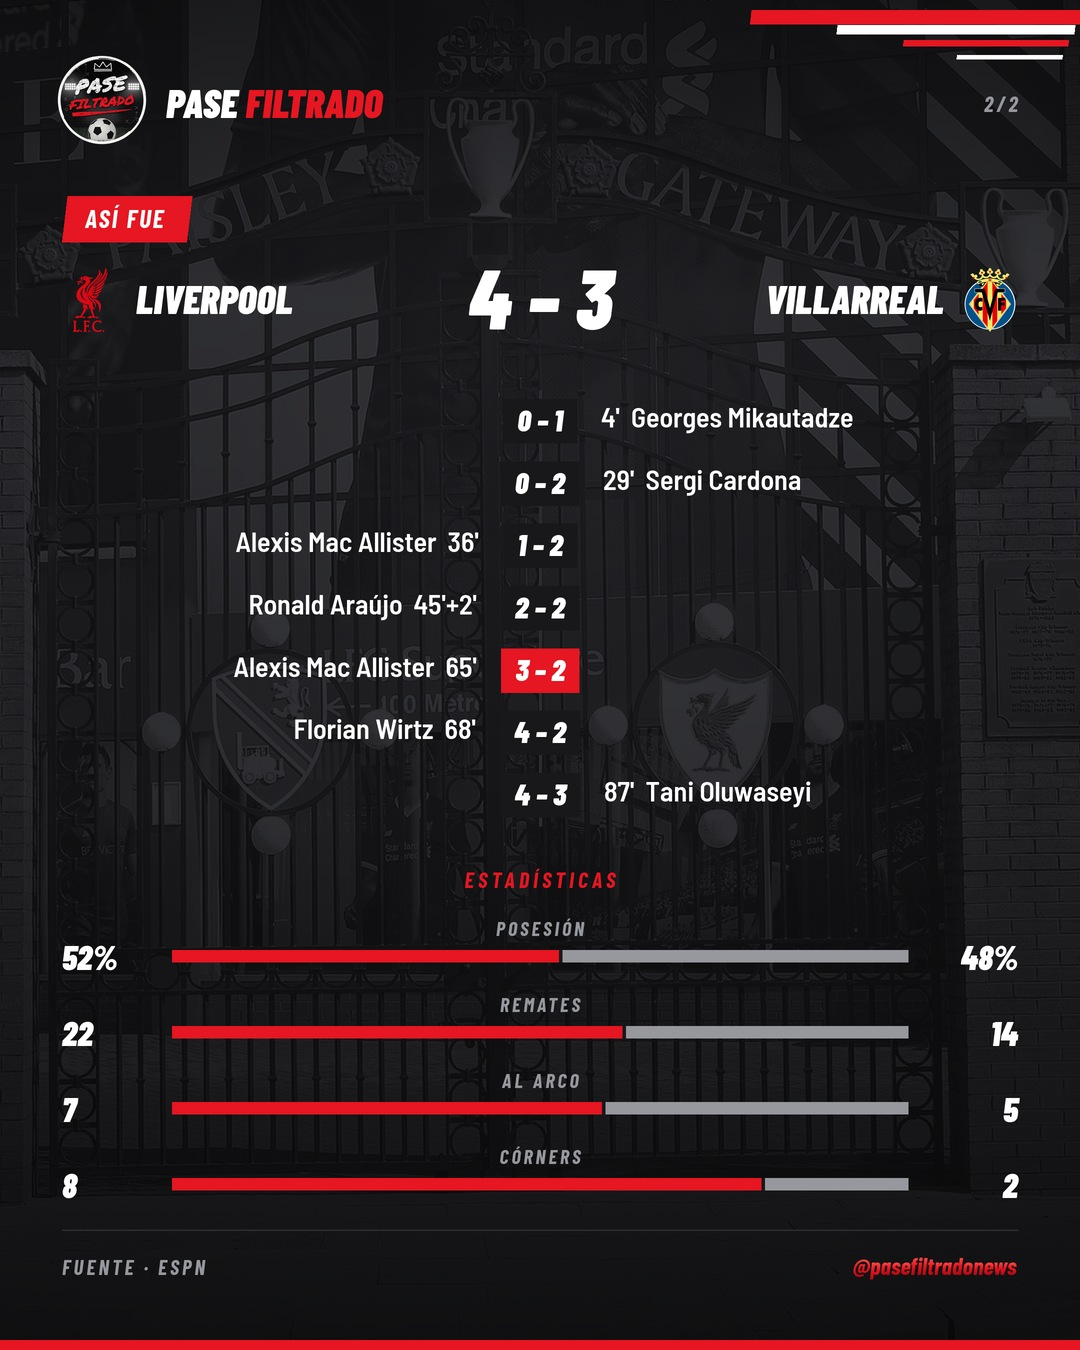
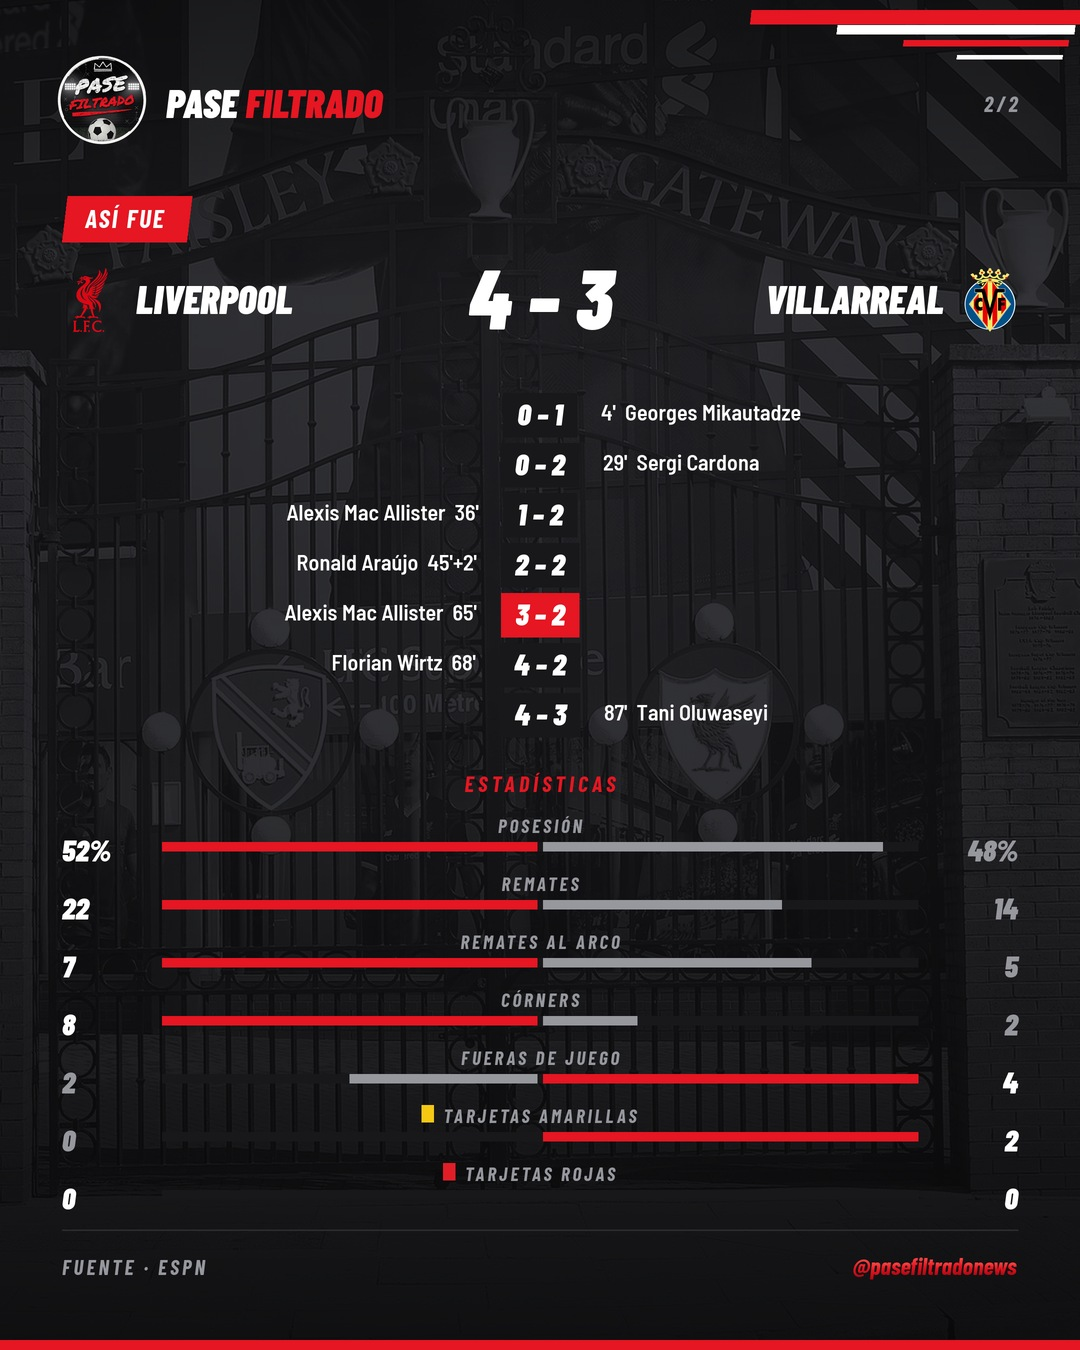
Así fue: tarjetas, fueras de juego y remates al arco al estilo Google

diff --git a/slides.py b/slides.py
@@ -464,6 +464,10 @@ def intro_carousel(out_dir: Path) -> list[Path]:
 
 # ---------------------------------------------------------------- resultado: así fue
 
+STAT_ROWS = ["Posesión", "Remates", "Remates al arco", "Córners", "Fueras de juego", "Tarjetas amarillas",
+             "Tarjetas rojas"]
+CARD_COLORS = {"Tarjetas amarillas": (245, 200, 20), "Tarjetas rojas": (225, 30, 40)}
+
 def result_timeline(m: dict, st: dict, stats: dict, out: Path, i: int = 2, n: int = 2) -> Path:
     """Segundo slide del resultado: cada gol con su minuto y el marcador parcial, y las estadísticas."""
     img, d = R.base(right=f"{i}/{n}")
@@ -487,7 +491,7 @@ def result_timeline(m: dict, st: dict, stats: dict, out: Path, i: int = 2, n: in
     timeline = st["linea"][:9]
     y = 390
     # espacio hasta el pie (H - 130), descontando el bloque de estadísticas (título + 4 filas)
-    stats_h = (40 + 50 + 4 * 76) if stats else 0
+    stats_h = (30 + 44 + len(STAT_ROWS) * 58) if stats else 0
     row = min(70, (H - 130 - stats_h - y) / max(len(timeline), 1))
     d.line([s(W / 2), s(y), s(W / 2), s(y + row * len(timeline))], fill=B.LINEA, width=s(3))
     fm, fp, fsc = font("score", 30), font("strong", int(min(30, row * 0.45))), font("score", 30)
@@ -516,28 +520,37 @@ def result_timeline(m: dict, st: dict, stats: dict, out: Path, i: int = 2, n: in
             d.text((s(W / 2 + bw / 2 + 24), s(cy) - (pt + pb) / 2), txt, font=fp, fill=B.TEXTO)
         y += row
 
-    # estadísticas en barras enfrentadas
+    # estadísticas al estilo Google: valor local | dato | valor visita, con barra comparativa
     if stats:
-        y += 40
+        y += 30
         tracked(d, (s(W / 2) - R.tracked_len("ESTADÍSTICAS", font("label", 22), 4) / 2, s(y)), "ESTADÍSTICAS",
                 font("label", 22), B.ACENTO, 4)
-        y += 50
-        fv, fl = font("score", 34), font("label", 20)
-        for label in ("Posesión", "Remates", "Al arco", "Córners"):
-            hv, av = stats["home"].get(label), stats["away"].get(label)
-            if hv is None or av is None:
-                continue
+        y += 44
+        fv, fl = font("score", 30), font("label", 19)
+        rows = [k for k in STAT_ROWS if k in stats["home"] and k in stats["away"]]
+        step = min(64, (H - 130 - y) / max(len(rows), 1))
+        for label in rows:
+            hv, av = stats["home"][label], stats["away"][label]
             fmt = (lambda v: f"{v:.0f}%") if label == "Posesión" else (lambda v: f"{v:.0f}")
-            total = (hv + av) or 1
-            bar_w = W - 124 - 2 * 110
-            x0 = 62 + 110
-            d.rectangle([s(x0), s(y + 34), s(x0 + bar_w), s(y + 46)], fill=B.GRAFITO)
-            split = x0 + bar_w * hv / total
-            d.rectangle([s(x0), s(y + 34), s(split), s(y + 46)], fill=B.ACENTO if hv >= av else B.SECUNDARIO)
-            d.rectangle([s(split + 4), s(y + 34), s(x0 + bar_w), s(y + 46)], fill=B.ACENTO if av > hv else B.SECUNDARIO)
+            # tarjetas: un rectangulito del color de la tarjeta junto al nombre
             tracked(d, (s(W / 2) - R.tracked_len(label.upper(), fl, 3) / 2, s(y)), label.upper(), fl, B.SECUNDARIO, 3)
-            paint(d, (s(62), s(y + 20)), fmt(hv), fv, B.TEXTO)
-            paint(d, (s(W - 62) - fv.getlength(fmt(av)), s(y + 20)), fmt(av), fv, B.TEXTO)
-            y += 76
+            if label in CARD_COLORS:
+                cx = W / 2 - R.tracked_len(label.upper(), fl, 3) / R.S / 2 - 22
+                d.rectangle([s(cx), s(y + 1), s(cx + 12), s(y + 18)], fill=CARD_COLORS[label])
+            paint(d, (s(62), s(y + step * 0.30)), fmt(hv), fv, B.TEXTO if hv >= av else B.SECUNDARIO)
+            paint(d, (s(W - 62) - fv.getlength(fmt(av)), s(y + step * 0.30)), fmt(av), fv,
+                  B.TEXTO if av >= hv else B.SECUNDARIO)
+            bar_w, x0, by = W - 124 - 2 * 100, 62 + 100, y + step * 0.48
+            top_v = max(hv, av) or 1
+            half = bar_w / 2
+            d.rectangle([s(x0), s(by), s(x0 + bar_w), s(by + 9)], fill=B.GRAFITO)
+            # cada barra crece desde el centro hacia su equipo, como en Google; el mayor llena su mitad
+            if hv:
+                d.rectangle([s(x0 + half - 3 - (half - 3) * hv / top_v), s(by), s(x0 + half - 3), s(by + 9)],
+                            fill=B.ACENTO if hv > av else B.SECUNDARIO)
+            if av:
+                d.rectangle([s(x0 + half + 3), s(by), s(x0 + half + 3 + (half - 3) * av / top_v), s(by + 9)],
+                            fill=B.ACENTO if av > hv else B.SECUNDARIO)
+            y += step
     R.footer(d, "ESPN")
     return R.finish(img, out)

diff --git a/sources.py b/sources.py
@@ -264,8 +264,9 @@ def marquee(matches: list[dict], big_teams: list[str], leagues: dict[str, str]) 
     return best if best_score >= 20 else None
 
 
-STAT_KEYS = {"possessionPct": "Posesión", "totalShots": "Remates", "shotsOnTarget": "Al arco", "wonCorners": "Córners",
-             "saves": "Atajadas"}
+STAT_KEYS = {"possessionPct": "Posesión", "totalShots": "Remates", "shotsOnTarget": "Remates al arco",
+             "wonCorners": "Córners", "offsides": "Fueras de juego", "yellowCards": "Tarjetas amarillas",
+             "redCards": "Tarjetas rojas", "foulsCommitted": "Faltas", "saves": "Atajadas"}
 
 
 def match_stats(m: dict) -> dict:
